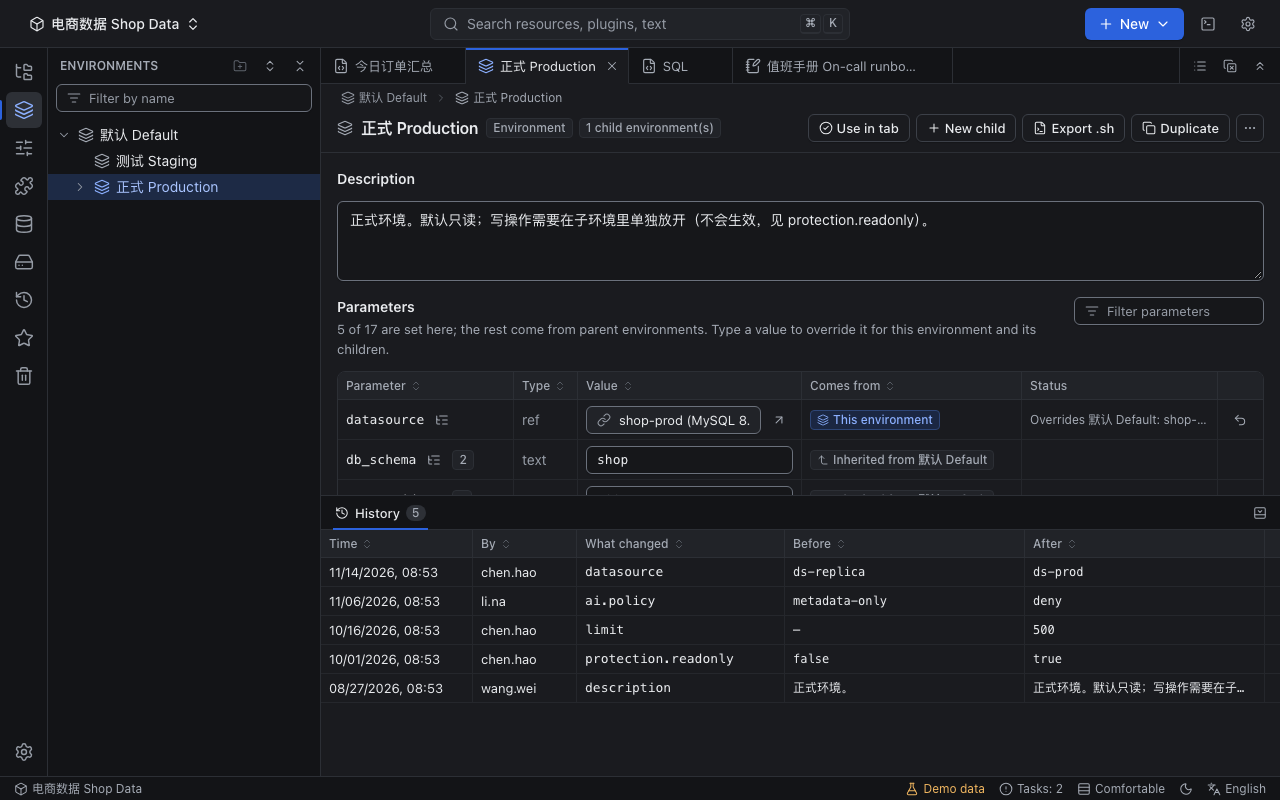
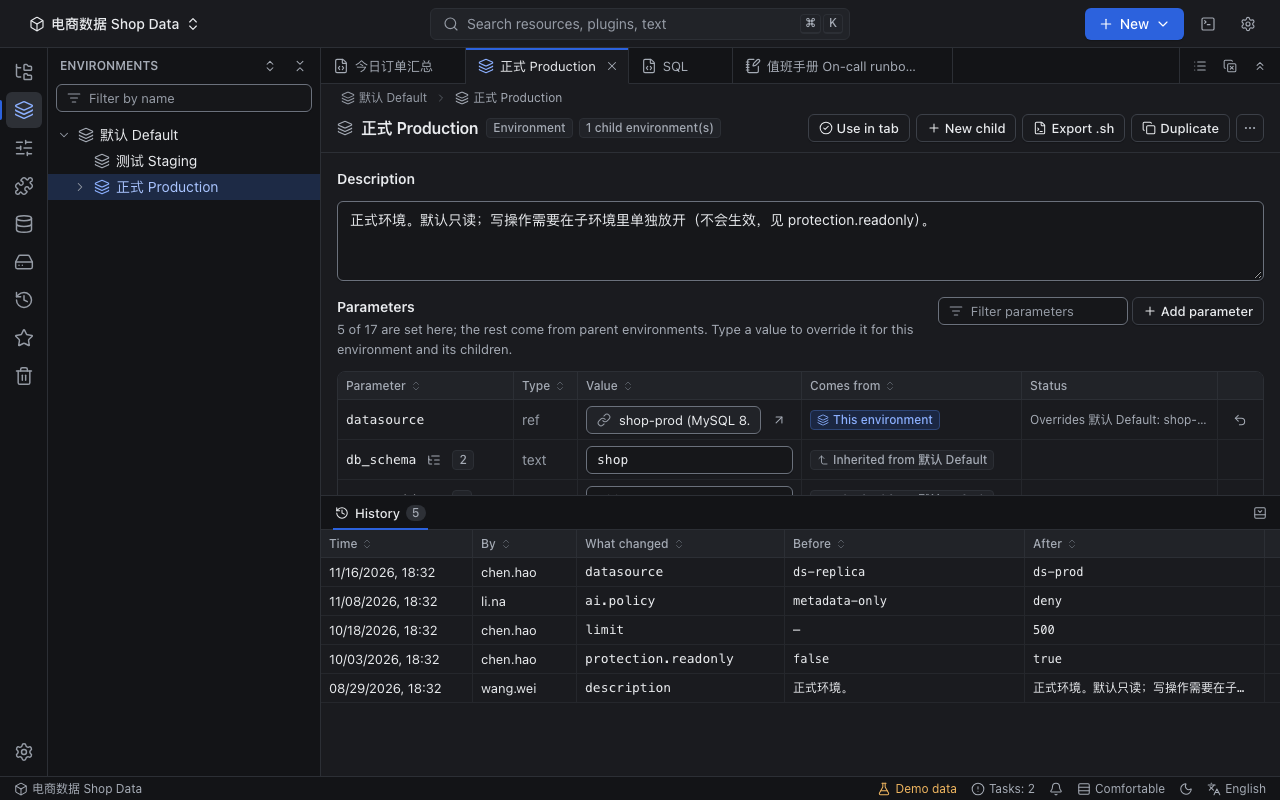
docs: regenerated demo-mode baselines; hand-over notes for the live walk-through

Changed region(s): [[0.7188, 0.375, 0.9688, 0.4375], [0.2812, 0.6875, 0.3438, 0.875], [0.6875, 0.9688, 0.8438, 1.0]]

diff --git a/docs/handoff/round10-shell-done.md b/docs/handoff/round10-shell-done.md
@@ -56,3 +56,28 @@
 - 浏览器里实际点“保留我的/采用新的”走完整的保存（带 `overwrite`）没有走过（单元测试覆盖了每一步，但没有端到端）。
 - 插件页主页链接在 Tauri 里是否打开系统浏览器（见上表）。
 - 键盘 Home/End/上下在窗口化的树里只有 jsdom 测试（End）。
+
+## 合并后对齐（协调分支 `e30b9d9` 合并之后）
+
+**类型**：内核的 `NodeState` 多了 `"load-failed"`：`frame.tsx` 两张文字表和色调表、设计组件 `TreeNodeState`（图标 `circle-alert`、`od-tree__row--load-failed` 用 `--danger-text`）都认了；`stateReason` 是错误码字符串，用 `error({code})` 配文字（“The plugin failed to produce this page.”）。`node.open` 的菜单命令现在带 `target`（插件节点的键 `@…` 内核按资源找会 `notFound`）。`kernel-texts` 测试通过。
+
+**对着真内核走了一遍**（devhost：`ONEDESK_SECRET_STORE=memory`、数据目录在会话 scratchpad、用 Playwright 驱动一个临时脚本，脚本没有提交，副本在 `/private/tmp/claude-501/walk/zz-r10-walk.spec.ts.txt`）：
+- **nested 夹具**：装好，`count = 5` 的 shelf 展开后 5 个节点；第一个节点右键只有“Open”、点击打开该资源的标签页；第二个节点右键**没有菜单**；`count = -1` 的 shelf 展开后是一个“Could not load”（`data-state="load-failed"`）。✔
+- **长层（用存储的资源代替，因为夹具的大 shelf 在内核里失败，见缺陷 1）**：根下 6000 个资源：展开前 DOM 里 34 行，滚到底（读完全部批次）后 DOM 里 43 行，最后一个节点可见；Home 回到第一个；过滤时出现“只在已读取的节点里查找”说明。✔　`End` 键只到**已读取**的最后一行（不会替用户读完整层）——这是有意的，记在此。
+- **合并**（note 资源）：① 编辑正文不保存，别处改名称 → 没有提示条，保存后名称和正文都在（`["Renamed elsewhere","my edit one"]`）✔；② 再改正文不保存，别处改正文 → 顶部出现“Changed elsewhere”，点“Keep mine”再保存 → 库里是我的（`my edit two`）✔；③ 同样再来一次点“Use the new one” → 编辑框显示别人的值（`their edit two`）、提示条消失 ✔。**用 nested 的 `touch`（插件改 `text`）出提示条这一条没有走**（脚本没写到）。
+- **通知入口**：保存两次后铃铛 `Notices (2 unread)`，点开列出两条“Saved”并带时间，“Clear”后显示“Nothing has been shown in this session.” ✔
+- **示例插件的 `big` 动作**：页面上没有这个按钮（页面动作只有 Run/Save/Save & run/Explain），我用 `run.start` 启动再从任务面板打开：结果表 DOM 里 16 行，滚到底也是 16 行，排序（点 customer 表头）、拖列宽（176px → 264px）正常。✔ 但表的 `aria-rowcount` 是 **1000**，不是 1 万（见缺陷 2）。
+- **插件页标题随语言、没声明 `files` 不显示“已授权的文件夹”**：这次没在真内核上走成（我写的临时脚本选择器不对，放弃了）；只有单元测试（`plugin-page.test.tsx` 新增 3 例：无 `files` 无该节、有 `files` 有该节、`name` 为 Label 时标题和标签页标题取当前语言）。
+- 启动速度：6000 个资源时页面要十几秒才起来（每个请求排队，`tree.children`（资源树第一批 200 个）单次约 2 秒，`workspace.info` 约 1.7 秒）——见缺陷 3。
+
+**缺陷（不是我的文件，没改）**
+1. 内核/夹具：`e2e/fixtures/plugins/com.example.nested` 的 shelf，`count` > 500（第一批 500 个、带 `next: 500`）时 `tree.children` 整层变成“加载失败”（`pluginError`）。复现：装夹具，`page.save new:com.example.nested:shelf` 带 `body.count: 501`，`tree.children {tree:"resources", parent:<id>}`。`count` 在 200…500 之间（不带 `next`）正常，一批超 200 个被截成 200 个并给 `next:200`。推测是内核在“插件一批超过 200 个且插件自己给了 `next`”时判错（和审查 #3 的 `next` 规则有关）。所以夹具不能产生“2 万个自供子节点”，这一条验收我用 6000 个存储资源代替了。
+2. 内核或示例插件：`big` 动作返回 1 万行，任务摘要说 10,000 rows，但结果表（`run.get` 的 `output.rows`）只有 1000 行（`aria-rowcount` 1000）。可能是内核把表输出截到 1000 行（`rowLimit`？）而插件注释说“不受 rowLimit 影响”。要 1 万行真的送到界面，这里要查。
+3. 内核：根资源树有 6000 个资源时每个请求（`workspace.info`、`tree.children` 第一批）要 1.7–2 秒，页面启动 >15 秒（Playwright 的 15 秒断言超时就过不了）。可能是 `tree.children` 对整层排序/统计，且读连接被占着；`workspace.info` 也慢说明不只是这一个方法。
+
+## 基准截图（10 张假数据模式）
+重新生成后逐张对照提交里的旧基准（像素差异 + 肉眼看并排对比图）。**旧基准本来就已过期**，所以差别不只来自本轮：
+- 本轮有意的变化：状态栏右侧多了铃铛（“任务”和“密度”之间）。`workbench-{light,dark}-tree-menu` 只有这一处（差异区域在状态栏 879–1063 × 782–796 像素）；`tasks` 里铃铛上有“1”（任务面板打开时弹了一条通知）。
+- 不是本轮造成的（来自前几轮，旧基准没跟上）：`env`：环境页参数区多了“Add parameter”按钮（过滤框旁）、说明文字换行不同；`plugin`：假数据模式下“Check for updates”“Open plugin folder”按钮隐藏（第九轮）；`sql`、`tasks`、`env` 里的时间、运行记录（“Executing…”进度、结果表有了数据）、历史表的日期是随时间变的（演示数据按“现在”生成），所以每次重跑都不同。
+- 没有看到错位、间距或行高的变化（树、表格、栏的盒子位置都对得上）。dark 版与 light 版的差别同上。
+新基准已提交。
